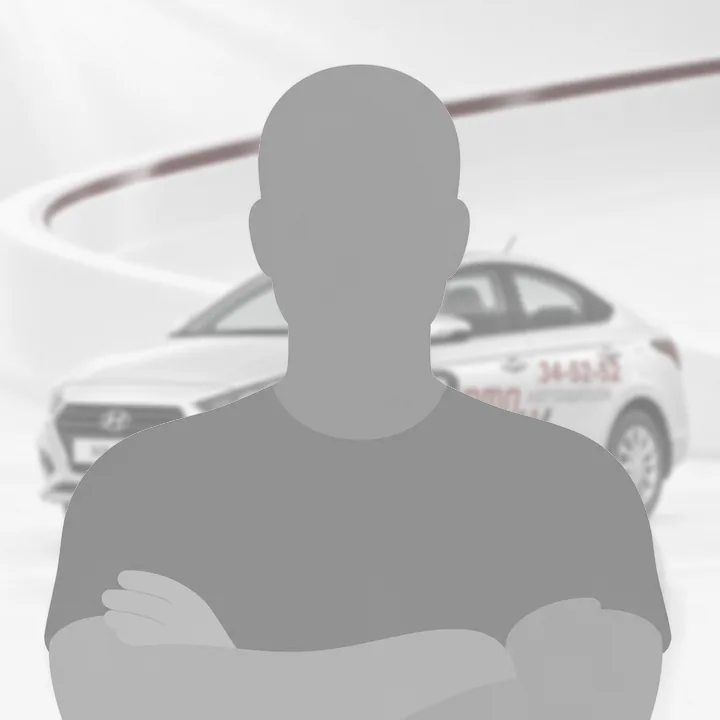
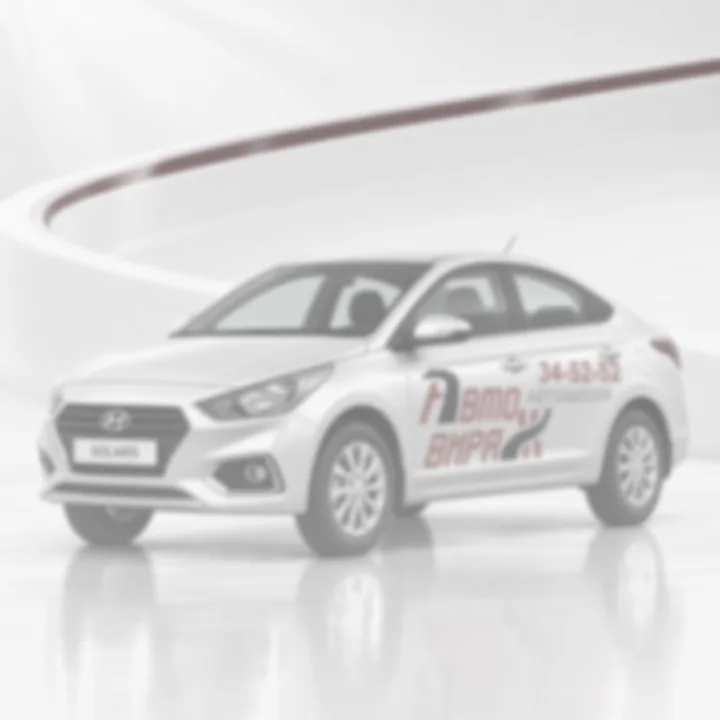
Карточки цен: картинка справа на свободном месте; у новых инструкторов машина и инициалы вместо силуэта; «Автомат»: голова на фото не срезается
- Главная, карточки программ: на компьютере (от 1280 px) и на планшете картинка справа от часов и цены, карточка ниже;
  на телефоне и 1100–1279 px места нет — картинка сверху, как раньше.
- Щербинин и Ефимов: как у других инструкторов без фото — их машина и инициалы (силуэт убран по просьбе владельца).
- «Категория B, автомат»: фото в первом экране сдвинуто, голова инструктора видна целиком на 1080–1920 px.
- Новосибирск: в заголовке офиса «Карла Маркса, 57» красным только номер дома, как у других адресов.

diff --git a/src/partials/team-cards.html b/src/partials/team-cards.html
@@ -66,13 +66,13 @@
       <button class="btn btn-sm btn-black btn-block" type="button" data-signup="bM" data-topic="К инструктору: Соловьев Д. Ю.">Записаться к инструктору</button></div>
   </article>
   <article class="ins" data-f="mkpp">
-    <div class="ph"><img src="/img/ins/shcherbinin.webp" alt="Фото инструктора пока нет, на фоне — его учебная Lada Granta" width="720" height="720" loading="lazy"><span class="pill red">Механика</span></div>
+    <div class="ph ph-car"><img src="/img/ins/shcherbinin.webp" alt="Учебная машина инструктора — Lada Granta" width="720" height="720" loading="lazy"><span class="ini" aria-hidden="true">АЩ</span><span class="pill red">Механика</span></div>
     <div class="ins-in"><span class="nm">Щербинин Алексей Николаевич</span>
       <dl><div><dt>Машина</dt><dd>Lada Granta</dd></div></dl>
       <button class="btn btn-sm btn-black btn-block" type="button" data-signup="bM" data-topic="К инструктору: Щербинин А. Н.">Записаться к инструктору</button></div>
   </article>
   <article class="ins" data-f="mkpp">
-    <div class="ph"><img src="/img/ins/efimov.webp" alt="Фото инструктора пока нет, на фоне — его учебный Hyundai Solaris" width="720" height="720" loading="lazy"><span class="pill red">Механика</span></div>
+    <div class="ph ph-car"><img src="/img/ins/efimov.webp" alt="Учебная машина инструктора — Hyundai Solaris" width="720" height="720" loading="lazy"><span class="ini" aria-hidden="true">ЕЕ</span><span class="pill red">Механика</span></div>
     <div class="ins-in"><span class="nm">Ефимов Евгений Сергеевич</span>
       <dl><div><dt>Машина</dt><dd>Hyundai Solaris</dd></div></dl>
       <button class="btn btn-sm btn-black btn-block" type="button" data-signup="bM" data-topic="К инструктору: Ефимов Е. С.">Записаться к инструктору</button></div>

diff --git a/assets/css/pages.css b/assets/css/pages.css
@@ -1146,3 +1146,18 @@ address{font-style:normal}
 .nsk-of-ph img{display:block;height:240px;width:auto;border-radius:var(--r-sm);background:#fff}
 .nsk-of-ph figcaption{position:absolute;left:10px;bottom:10px;background:#fff;color:var(--ink);border-radius:999px;padding:7px 12px;font:700 13px/1 var(--font)}
 @media (min-width:1080px){.nsk-of{grid-template-columns:280px minmax(0,1fr);padding:20px;gap:20px}.nsk-of-ph img{height:300px}.nsk-of-tx .btn{justify-self:start}}
+/* Карточки цен на главной: картинка справа, на свободном месте у часов и цены (владелец 16.11), там, где хватает ширины.
+   На телефоне и на 1100–1279 px места справа нет: картинка остаётся сверху */
+@media (min-width:520px) and (max-width:1099px){
+  .pc{grid-template-columns:minmax(0,1fr) auto;column-gap:16px}
+  .pc-pic{grid-column:2;grid-row:1 / span 4;align-self:center;height:auto;margin:0}
+  .pc-pic img{width:150px;height:150px}
+  .pc-cat,.pc-name,.pc-chips,.pc-price{grid-column:1}
+}
+@media (min-width:1280px){
+  .pc{grid-template-columns:minmax(0,1fr) auto;column-gap:12px;grid-template-rows:auto auto auto auto auto auto auto 1fr}
+  .pc-pic{grid-column:2;grid-row:3 / span 2;align-self:center;height:auto;margin:0}
+  .pc-pic img{width:80px;height:80px}
+  .pc-chips,.pc-price{grid-column:1}
+}
+@media (min-width:1440px){.pc-pic{grid-row:2 / span 3}.pc-name{grid-column:1}}   /* на широких: картинка рядом с названием, часами и ценой, часы в одну строку */

diff --git a/src/pages/obuchenie/kategoriya-b-akpp.html b/src/pages/obuchenie/kategoriya-b-akpp.html
@@ -8,7 +8,7 @@ priority: 0.9
 <section class="lp-hero">
   <div class="wrap">
     <nav class="crumbs" aria-label="Навигация"><a href="/">Главная</a><span>/</span><a href="/obuchenie">Обучение</a><span>/</span><span>Категория B, автомат</span></nav>
-    <div class="lp-cover">
+    <div class="lp-cover lp-up">
       <img src="/img/landing/b-akpp-1600.webp" srcset="/img/landing/b-akpp-900.webp 900w, /img/landing/b-akpp-1600.webp 1600w" sizes="(min-width:1520px) 1456px, 100vw" alt="Инструктор автошколы «Авто-Вираж» у учебной машины с автоматической коробкой" width="1600" height="1066" fetchpriority="high">
       <div class="lp-tx">
         <span class="lp-pill">Категория «B»</span>

diff --git a/src/pages/novosibirsk.html b/src/pages/novosibirsk.html
@@ -123,7 +123,7 @@ phone: +7 (383) 205-24-34 | +73832052434
     <div class="nsk-ofs">
     <article class="nsk-of" id="km">
       <div class="nsk-of-tx">
-        <h3 class="it">Карла <span class="acc">Маркса, 57</span></h3>
+        <h3 class="it">Карла Маркса, <span class="acc">57</span></h3>
         <p>Новосибирск, пр. Карла Маркса,&nbsp;57, офис 853, 8&nbsp;этаж</p>
         <a class="btn btn-red" href="https://yandex.ru/maps/?text=%D0%9D%D0%BE%D0%B2%D0%BE%D1%81%D0%B8%D0%B1%D0%B8%D1%80%D1%81%D0%BA%2C%20%D0%BF%D1%80%D0%BE%D1%81%D0%BF%D0%B5%D0%BA%D1%82%20%D0%9A%D0%B0%D1%80%D0%BB%D0%B0%20%D0%9C%D0%B0%D1%80%D0%BA%D1%81%D0%B0%2C%2057" target="_blank" rel="noopener">Маршрут</a>
       </div>

diff --git a/seo/BRANDCORE.md b/seo/BRANDCORE.md
@@ -54,7 +54,7 @@
 | Договор с несовершеннолетним | подписывает родитель или опекун | подтверждено — владелец сайта, 11.11.2026 |
 | Даты экзаменов на сайте | школа присылает владельцу сайта в начале месяца, он вносит их в `src/partials/exam-dates.html`; позже — через админку | подтверждено — владелец сайта, 11.11.2026 |
 | Учебный парк | 13 учебных транспортных средств (сколько из них машин и мотоциклов, школа не уточнила; было «9 машин и мотоцикл» — это модели) | подтверждено — школа, ответ на вопросы от 11.11, 16.11.2026 |
-| Закрепление машин | Lada Granta — Новоселов Е. С., Володин С. Н., Щербинин А. Н.; Hyundai Solaris — Ефимов Е. С. Щербинин и Ефимов на сайте без фото и стажа: в карточке серый силуэт на фоне их машины (до фото, владелец сайта 16.11.2026); машина Ковалёнка — без ответа | подтверждено — школа, ответ на вопросы от 11.11, 16.11.2026 |
+| Закрепление машин | Lada Granta — Новоселов Е. С., Володин С. Н., Щербинин А. Н.; Hyundai Solaris — Ефимов Е. С. Щербинин и Ефимов на сайте без фото и стажа: в карточке их машина и инициалы, как у других без фото (силуэт владелец отклонил 16.11.2026); машина Ковалёнка — без ответа | подтверждено — школа, ответ на вопросы от 11.11, 16.11.2026 |
 | Стаж вождения инструкторов | от 10 до 34 лет | сайт: карточки инструкторов (`src/partials/team-cards.html`), `/o-shkole`; при смене состава пересчитать |
 | АКПП | Omoda C5, Chery Tiggo 4 Pro, Jetour Dashing, Belgee S50, VW Polo | `/avtopark` |
 | МКПП | Kia Rio, Hyundai Solaris, Lada Granta, Nissan Note | `/avtopark` |
